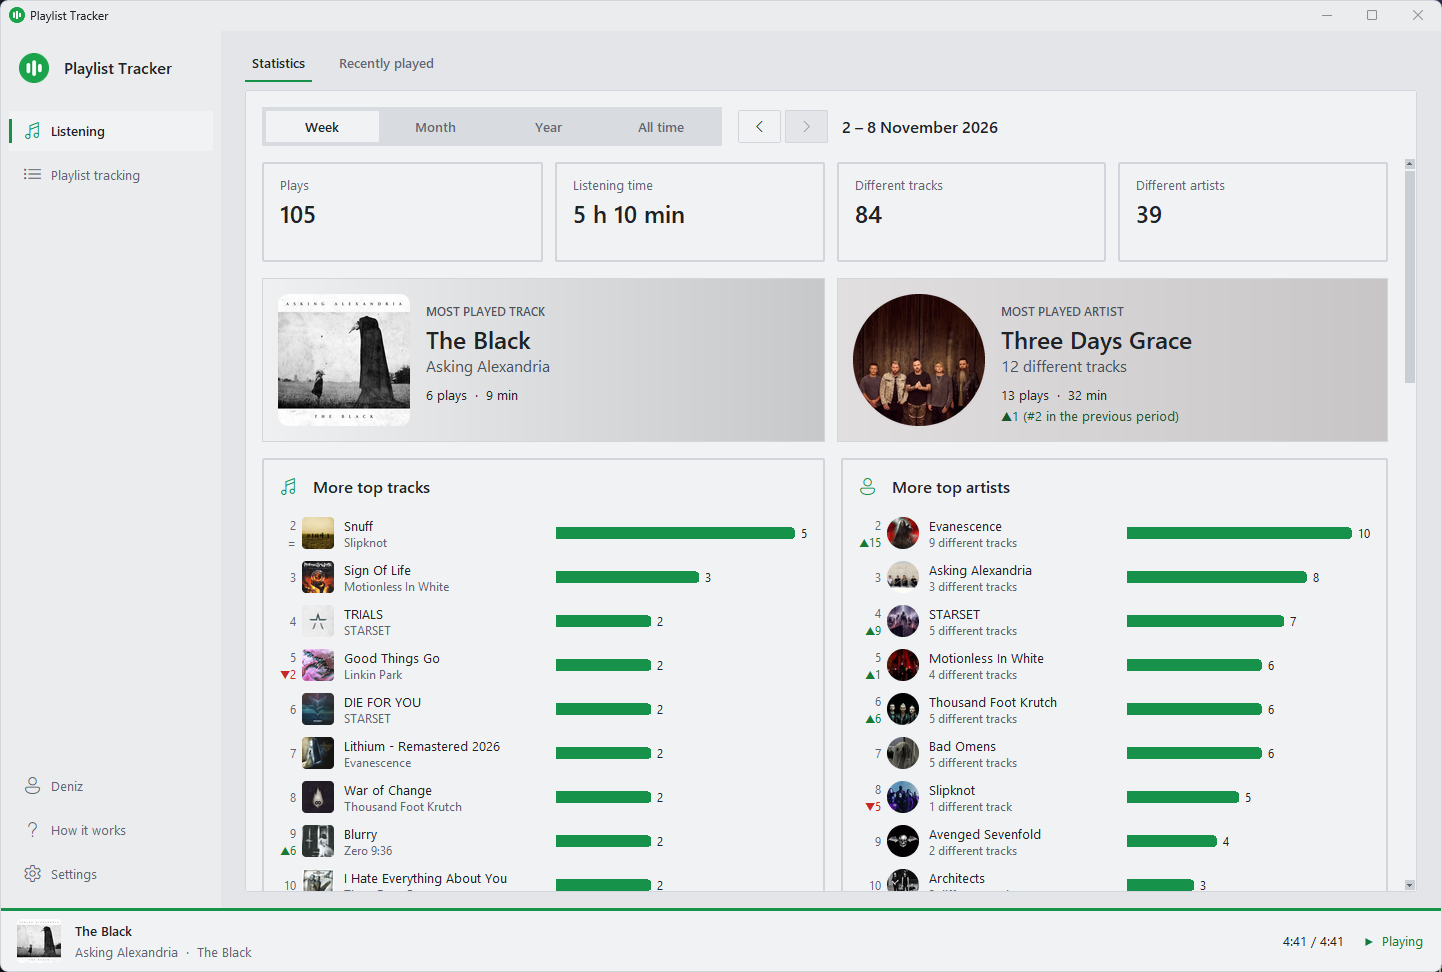
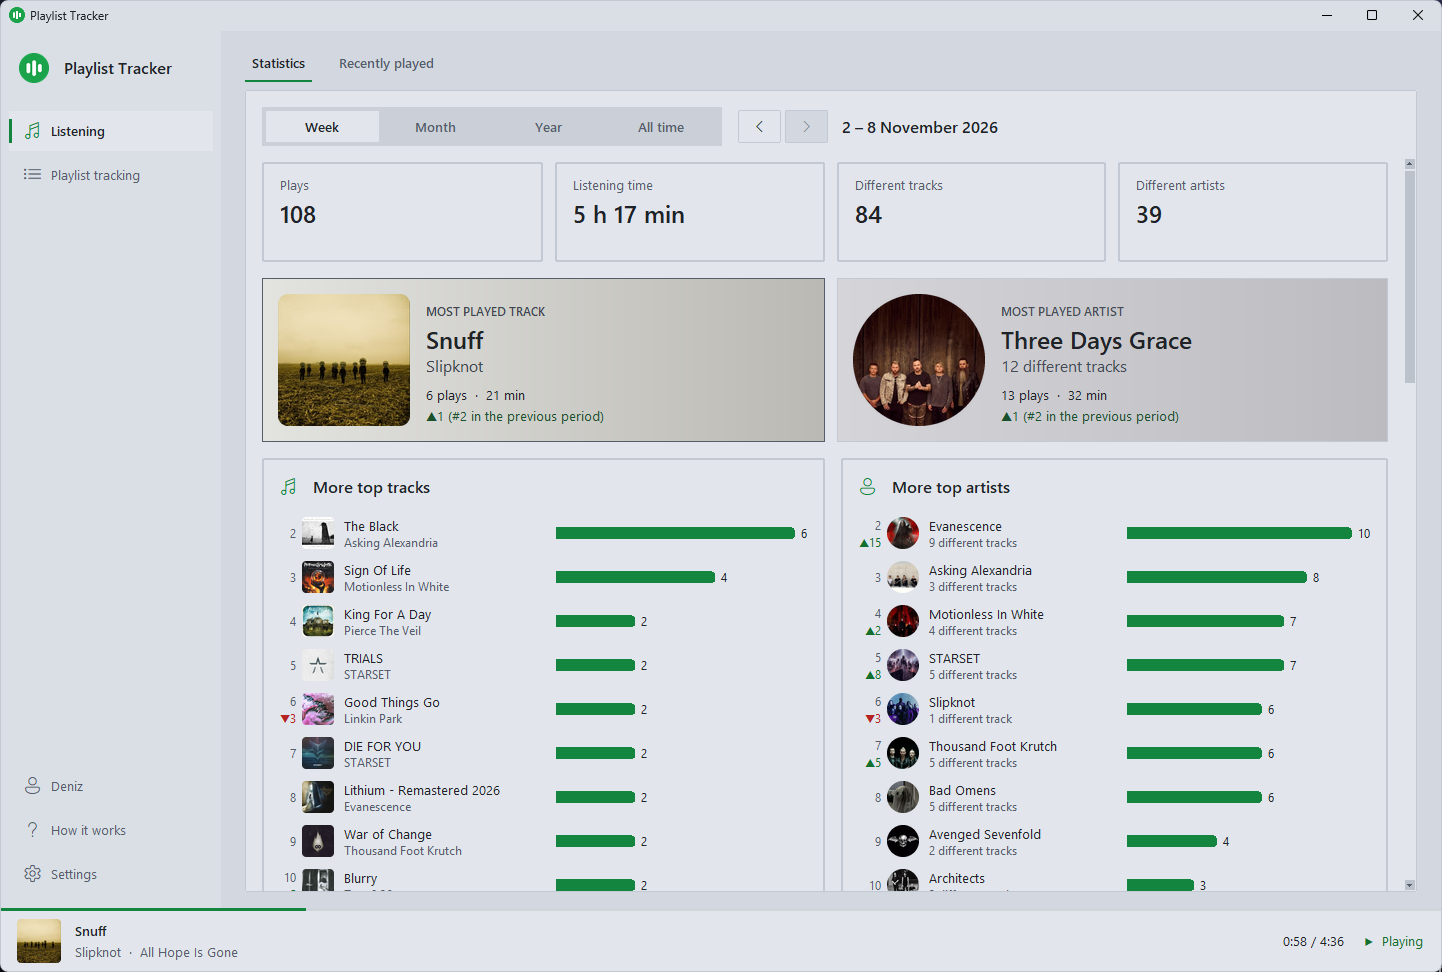
Make the light theme a step darker, in slate grays

diff --git a/playlist_tracker/ui/theme.py b/playlist_tracker/ui/theme.py
@@ -15,16 +15,16 @@ from types import SimpleNamespace
 THEMES = ("system", "light", "dark")
 
 LIGHT = {
-    # Soft grays rather than white, which looked too bright; every text color keeps 4.5:1 on the surface
-    "bg": "#e3e5e9", "surface": "#f1f2f4", "border": "#d2d6dc", "text": "#1f2328", "muted": "#5f6672",
-    "hover": "#e6e8ec", "selected": "#d9e4f8", "stripe": "#eaecef", "focus": "#3b82f6", "focus_active": "#2f6fdb",
-    "disabled": "#c4c8cf", "disabled_text": "#eef0f2", "button_disabled_text": "#8f96a1",
-    "scrollbar": "#c9ced5", "scrollbar_active": "#b3b9c2",
-    "added": "#177a33", "removed": "#c62828", "unplayable": "#9a5a00", "playable": "#1565c0", "initial": "#5f5f5f",
-    "spotify_tint": "#e1eee5", "youtube_tint": "#f1e3e2",
-    "nav": "#d8dbe0",
+    # Slate grays a step darker than white, which looked too bright; every text color keeps 4.5:1 on the surface
+    "bg": "#d3d8e0", "surface": "#e2e6ec", "border": "#c3c9d2", "text": "#1f2328", "muted": "#555d6a",
+    "hover": "#d8dde4", "selected": "#c9d7f0", "stripe": "#dbdfe6", "focus": "#1f5fd6", "focus_active": "#1a51b8",
+    "disabled": "#b9bfc8", "disabled_text": "#e6e9ee", "button_disabled_text": "#7d8592",
+    "scrollbar": "#bcc2cb", "scrollbar_active": "#a7aeb9",
+    "added": "#14702f", "removed": "#b42222", "unplayable": "#8a4f00", "playable": "#1258ad", "initial": "#585f6a",
+    "spotify_tint": "#d2e3d8", "youtube_tint": "#e5d5d4",
+    "nav": "#cbd0d8",
     # Chart marks: at least 3:1 against this theme's surface
-    "chart": "#16924a", "chart_hover": "#10753a", "grid": "#dfe2e6",
+    "chart": "#14853f", "chart_hover": "#0f6b32", "grid": "#d0d5dc",
 }
 DARK = {
     "bg": "#16181d", "surface": "#1f2228", "border": "#30343c", "text": "#e6e8eb", "muted": "#9aa1ab",
